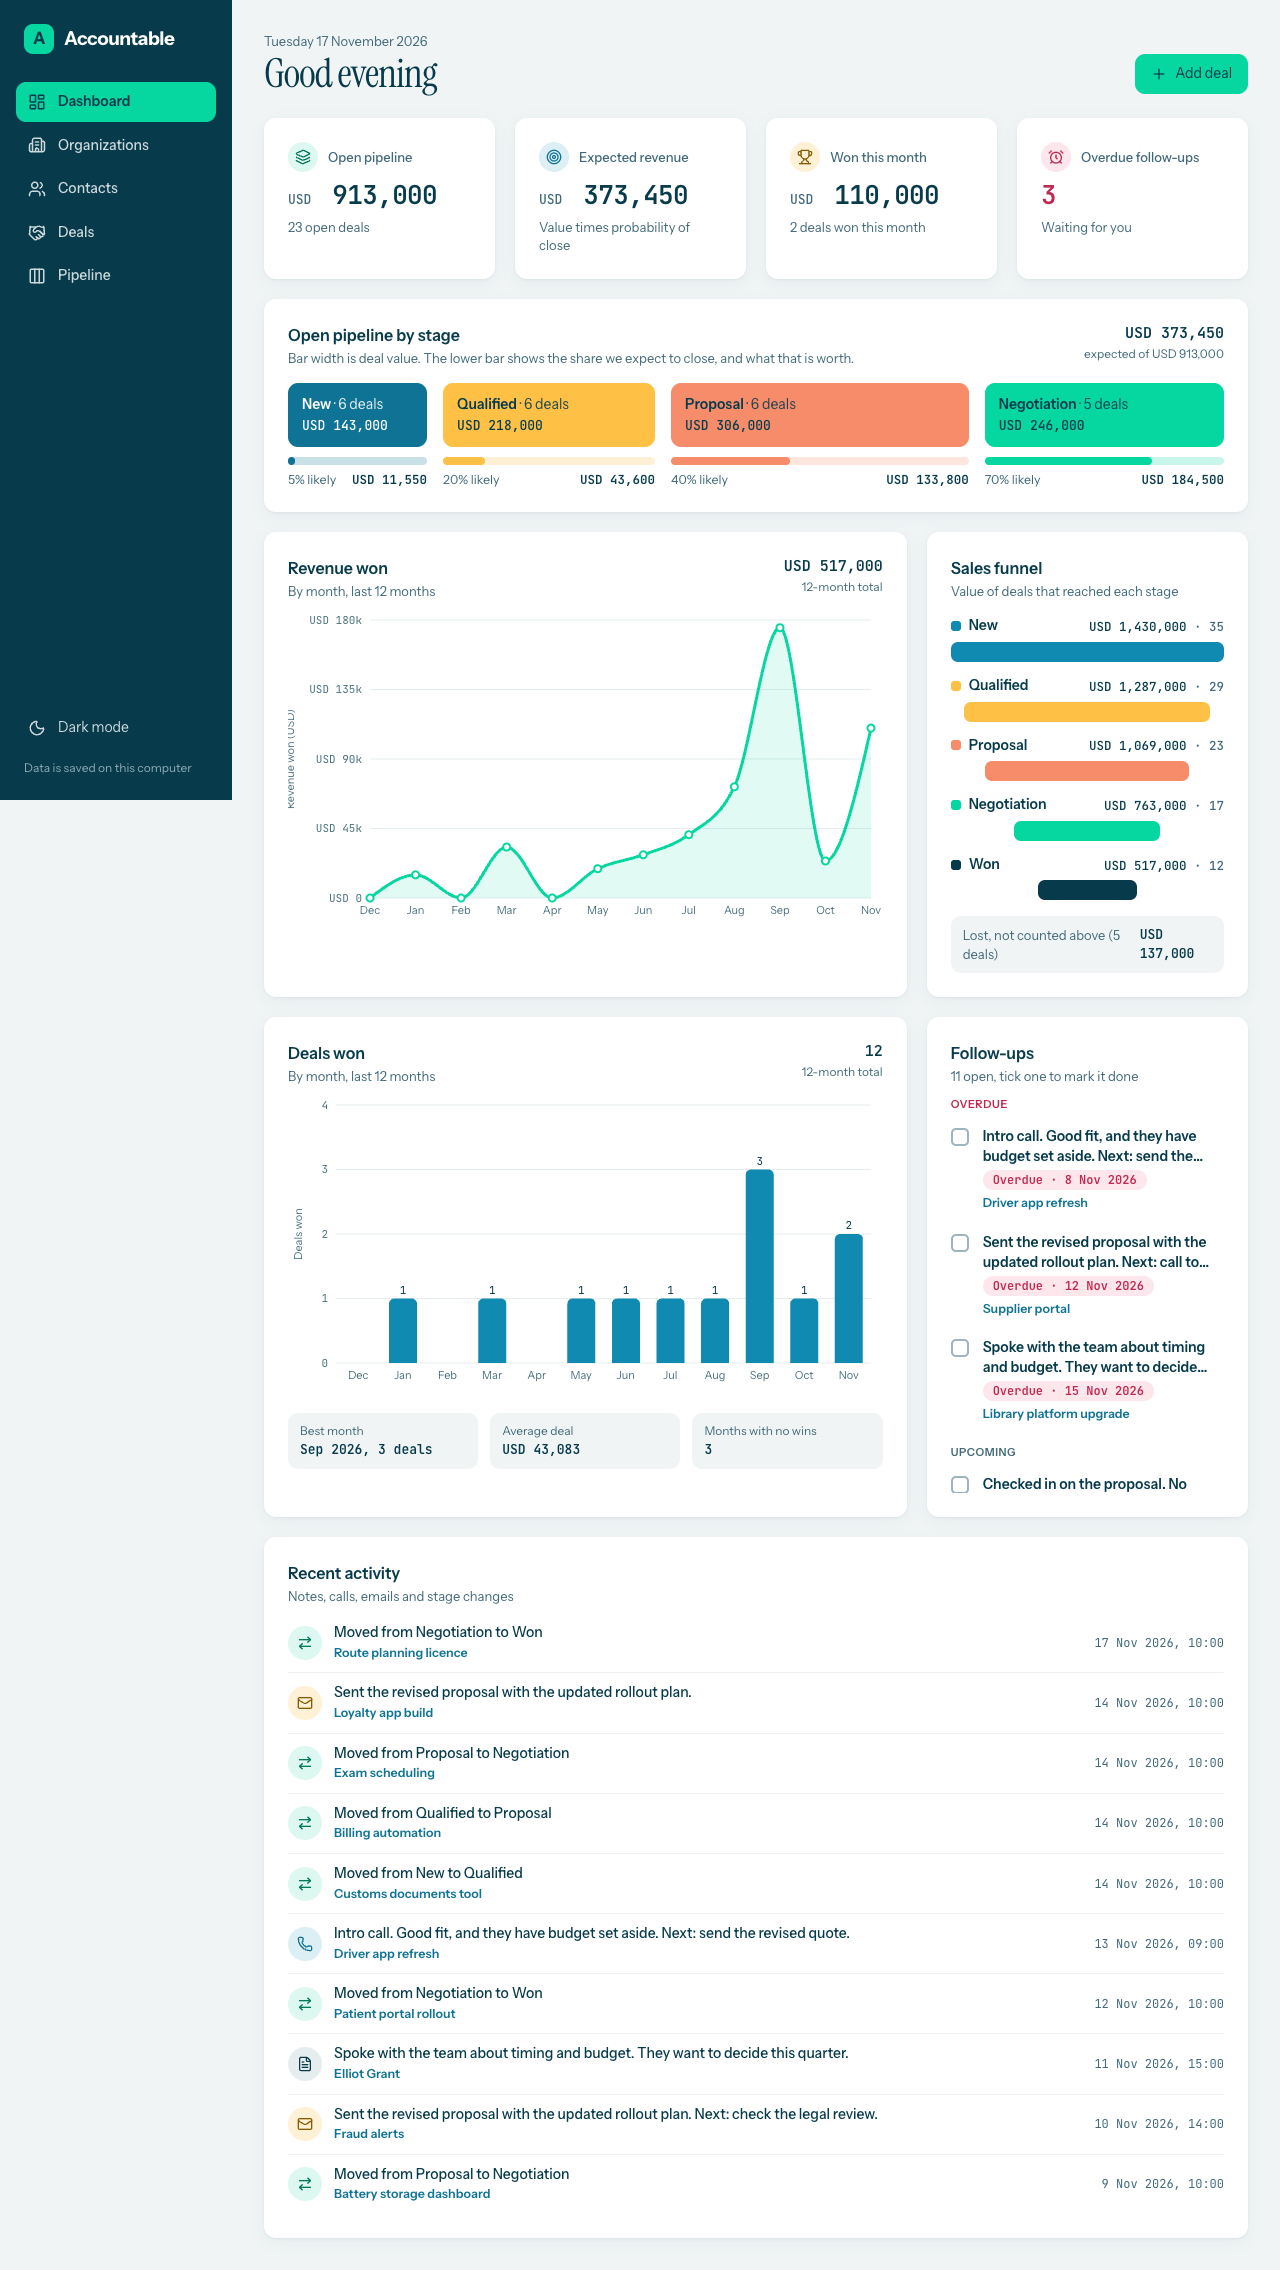
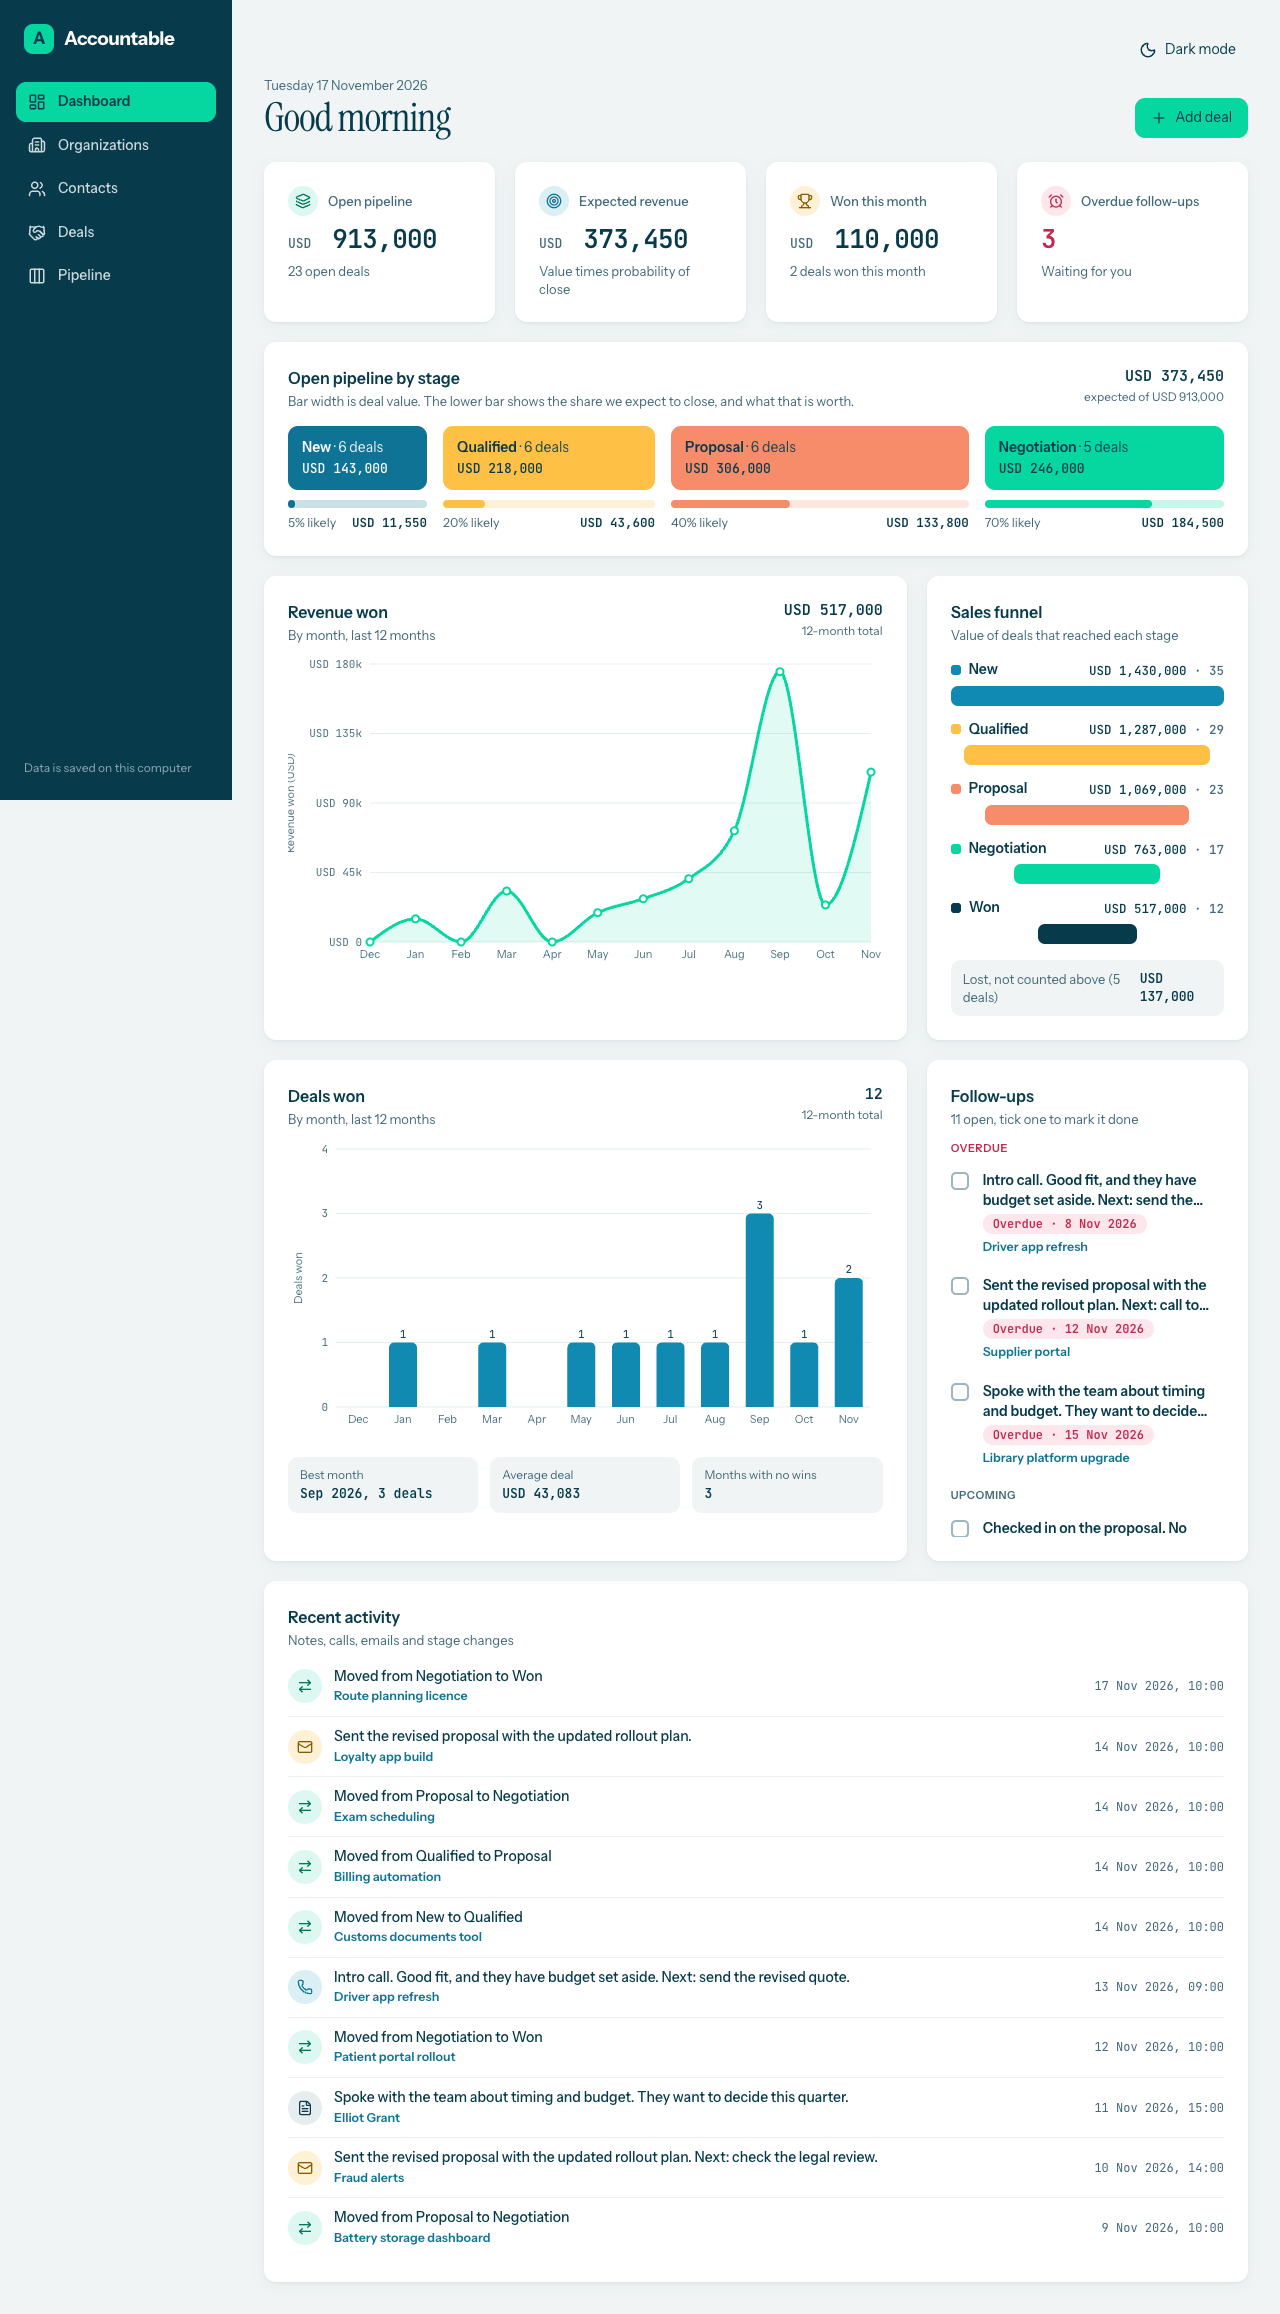
Build: toggle at the top right

diff --git a/frontend/src/components/Shell.tsx b/frontend/src/components/Shell.tsx
@@ -47,15 +47,15 @@ export function Shell() {
             </NavLink>
           ))}
         </nav>
-        <div className="mt-auto flex flex-col gap-3">
-          <ThemeToggle />
-          <p className="px-2 text-xs text-sidebar-muted">
-            Data is saved on this computer
-          </p>
-        </div>
+        <p className="mt-auto px-2 text-xs text-sidebar-muted">
+          Data is saved on this computer
+        </p>
       </aside>
       <main className="min-w-0 flex-1 p-8">
         <div className="mx-auto max-w-[1440px]">
+          <div className="mb-2 flex justify-end">
+            <ThemeToggle />
+          </div>
           <Outlet />
         </div>
       </main>

diff --git a/e2e/look.spec.ts b/e2e/look.spec.ts
@@ -79,6 +79,7 @@ test("the dashboard has a line chart, a bar chart and the pipeline visual", asyn
   ).toHaveCSS("background-color", "rgb(6, 214, 160)");
   // chart tooltips show the exact figure
   const chart = page.getByTestId("revenue-chart");
+  await chart.scrollIntoViewIfNeeded();
   const box = (await chart.boundingBox())!;
   await page.mouse.move(box.x + box.width * 0.55, box.y + box.height * 0.5);
   await expect(chart.locator(".recharts-tooltip-wrapper")).toContainText("USD");

diff --git a/frontend/src/components/ThemeToggle.tsx b/frontend/src/components/ThemeToggle.tsx
@@ -17,7 +17,7 @@ export function ThemeToggle() {
     <button
       type="button"
       onClick={toggle}
-      className="flex items-center gap-3 rounded-[10px] px-3 py-2.5 font-medium transition-colors hover:bg-white/10 hover:text-white"
+      className="flex items-center gap-2 rounded-[10px] px-3 py-2 text-sm font-medium text-ink transition-colors hover:bg-soft"
     >
       <Icon className="size-[18px]" aria-hidden />
       {next === "dark" ? "Dark mode" : "Light mode"}

diff --git a/docs/changes/dark-mode/plan.md b/docs/changes/dark-mode/plan.md
@@ -20,8 +20,8 @@ Each phase ends with something that runs, with its tests passing, a commit and a
 | `index.html` | An inline script that sets `data-theme` from local storage before the page paints. |
 | `src/theme/tokens.css` | New tokens (`--on-accent`, `--sidebar`, `--on-sidebar`, `--float`, `--on-float`, `--won`, `--on-won`, `--lost`, `--on-lost`, `--alert-solid`, `--info-solid`, `--overlay`, `--field-ring`, `--checkbox-edge`, `--grid`, `--axis`) with light values equal to today's colors. Then the dark block with the spec's values, and `color-scheme: light` or `dark` so native selects, date pickers and scrollbars follow the mode. |
 | `src/lib/theme.ts` | New. Read, store and apply the theme, with local storage failures handled. |
-| `src/components/ThemeToggle.tsx` | New. The button at the bottom of the sidebar. |
-| `src/components/Shell.tsx` | Sidebar uses `--sidebar` and `--on-sidebar`, the footer text a token, and the toggle is added. |
+| `src/components/ThemeToggle.tsx` | New. The button at the top right of the content area. |
+| `src/components/Shell.tsx` | Sidebar uses `--sidebar` and `--on-sidebar`, the footer text a token, and the toggle is added above the page content, at the top right. |
 | `src/components/ui.tsx` | Buttons, tags and the stage styles use the new tokens: `--on-accent` on green fills, `--alert-solid` on the destructive button, `--won` and `--lost` for those tags and dots. |
 | `src/components/Toast.tsx` | Uses `--float` and `--on-float` instead of `bg-ink text-white`. |
 | `src/components/RecordDialog.tsx` | The overlay uses `--overlay`, and the Save button `--on-accent`. |
@@ -63,7 +63,7 @@ Ends with: the app looks exactly as before, and the guard test is in.
 
 1. Write `theme.ts`: `readTheme()` returns `"dark"` only when the stored value is `"dark"`, otherwise `"light"`. `applyTheme()` sets or removes the attribute. `storeTheme()` saves the choice. Any local storage error falls back to light.
 2. Add the inline script to `index.html`.
-3. Add `ThemeToggle` with an icon and the label of the mode it will switch to, and put it at the bottom of the sidebar.
+3. Add `ThemeToggle` with an icon and the label of the mode it will switch to, and put it at the top right of the content area, above the page heading.
 4. Unit tests for `theme.ts` and the toggle.
 
 Ends with: the toggle switches the attribute and is remembered. Dark colors aren't defined yet, so nothing looks different.

diff --git a/docs/spec.md b/docs/spec.md
@@ -182,7 +182,7 @@ Each is testable. "R" numbers are referenced by tests and plans.
 
 ### Appearance
 
-- R38. A toggle at the bottom of the sidebar switches between light and dark mode. It is on every page, so every section has it.
+- R38. A toggle at the top right of the page, above the heading, switches between light and dark mode. It is on every page, so every section has it.
 - R39. Light mode is the default. The choice is remembered in the browser only (local storage), not in the database, and is applied before the page paints, so a reload in dark mode never flashes light.
 - R40. Every screen follows the mode: tables, record pages, the dashboard and its charts, the pipeline, dialogs, forms, menus and the confirmation messages. Nothing stays light in dark mode.
 - R41. Light mode looks exactly as it did before dark mode, apart from the toggle.
@@ -272,8 +272,8 @@ Revenue line: Sea Green. Deals bars: Cerulean. Funnel bars: the stage colors. Al
 
 ### Layout
 
-- A fixed left sidebar, 232px wide, Midnight background in both modes, with the product name in Instrument Sans, five nav items with icons and the active one marked by a Sea Green pill, text in Sea Mist. The light and dark mode toggle sits at the bottom of the sidebar, shows the mode it will switch to ("Dark mode" or "Light mode") with an icon, and has a visible focus ring like every other control.
-- A content area on the page color, max width about 1440px, with a page heading and its main action on the right.
+- A fixed left sidebar, 232px wide, Midnight background in both modes, with the product name in Instrument Sans, five nav items with icons and the active one marked by a Sea Green pill, text in Sea Mist.
+- A content area on the page color, max width about 1440px. At its top right, above the page heading, sits the light and dark mode toggle. It shows the mode it will switch to ("Dark mode" or "Light mode") with an icon, and has a visible focus ring like every other control. Below it is the page heading with its main action on the right.
 - Minimum supported width 1280px.
 
 ### Screens

diff --git a/docs/STATUS.md b/docs/STATUS.md
@@ -17,7 +17,7 @@ The MVP is built, phases 0 to 8 of `docs/changes/mvp/plan.md`. All tests and `np
 - **Improve step** (`docs/IMPROVE.md`): at Deploy, after the review fixes and before the merge, look at what went wrong, add corrections for repeated mistakes, remove what is out of date and improve the file itself. `AGENTS.md` points to it.
 - **Pipeline fix**: if loading deals fails, the Pipeline page now shows the error with a retry button instead of a skeleton forever. Its drag logic moved into pure functions in `boardMath.ts` so it can be unit tested.
 
-- **Dark mode** (`docs/changes/dark-mode/`): a toggle at the bottom of the sidebar, remembered in local storage and applied before the first paint. All colors are tokens in `tokens.css` (a guard test fails on any hex color in a component), with a dark block under `:root[data-theme="dark"]`. The contrast test checks every pairing in both modes. New tests: `theme.test.ts`, `ThemeToggle.test.tsx`, `tokens.test.ts` and `e2e/theme.spec.ts`. Screenshots of the dashboard and pipeline in both modes are in `docs/changes/dark-mode/`. The Lost dot uses its own token (`--lost-dot`) so it stays visible on black. Still to do: a person's by-eye pass in both modes.
+- **Dark mode** (`docs/changes/dark-mode/`): a toggle at the top right of the page, remembered in local storage and applied before the first paint. All colors are tokens in `tokens.css` (a guard test fails on any hex color in a component), with a dark block under `:root[data-theme="dark"]`. The contrast test checks every pairing in both modes. New tests: `theme.test.ts`, `ThemeToggle.test.tsx`, `tokens.test.ts` and `e2e/theme.spec.ts`. Screenshots of the dashboard and pipeline in both modes are in `docs/changes/dark-mode/`. The Lost dot uses its own token (`--lost-dot`) so it stays visible on black. Still to do: a person's by-eye pass in both modes.
 
 ## How to run
 

diff --git a/docs/changes/dark-mode/intent.md b/docs/changes/dark-mode/intent.md
@@ -6,7 +6,7 @@ Accountable only has a light mode, and some people prefer a dark screen.
 
 ## Proposed outcome
 
-A dark mode with a toggle on every page, across every section. The toggle sits at the bottom of the sidebar.
+A dark mode with a toggle on every page, across every section. The toggle sits at the top right of the page, above the heading.
 
 ## Constraints
 
